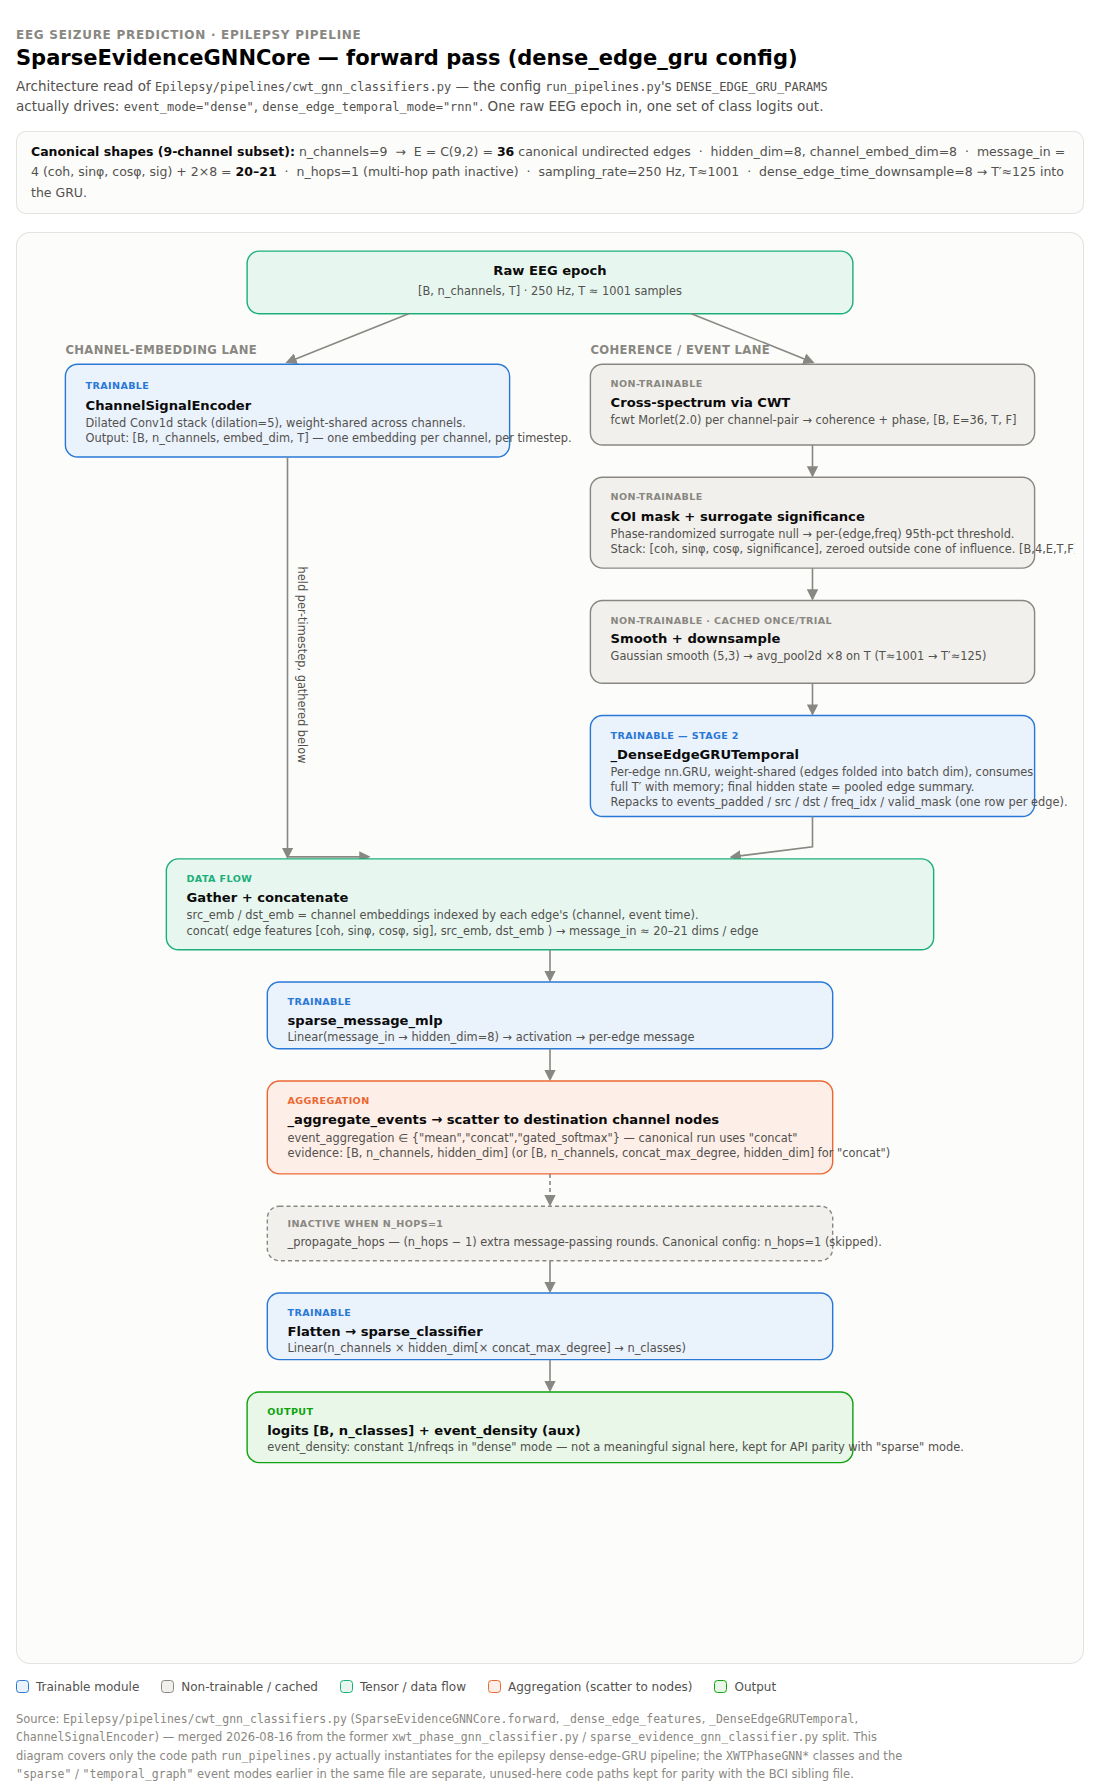
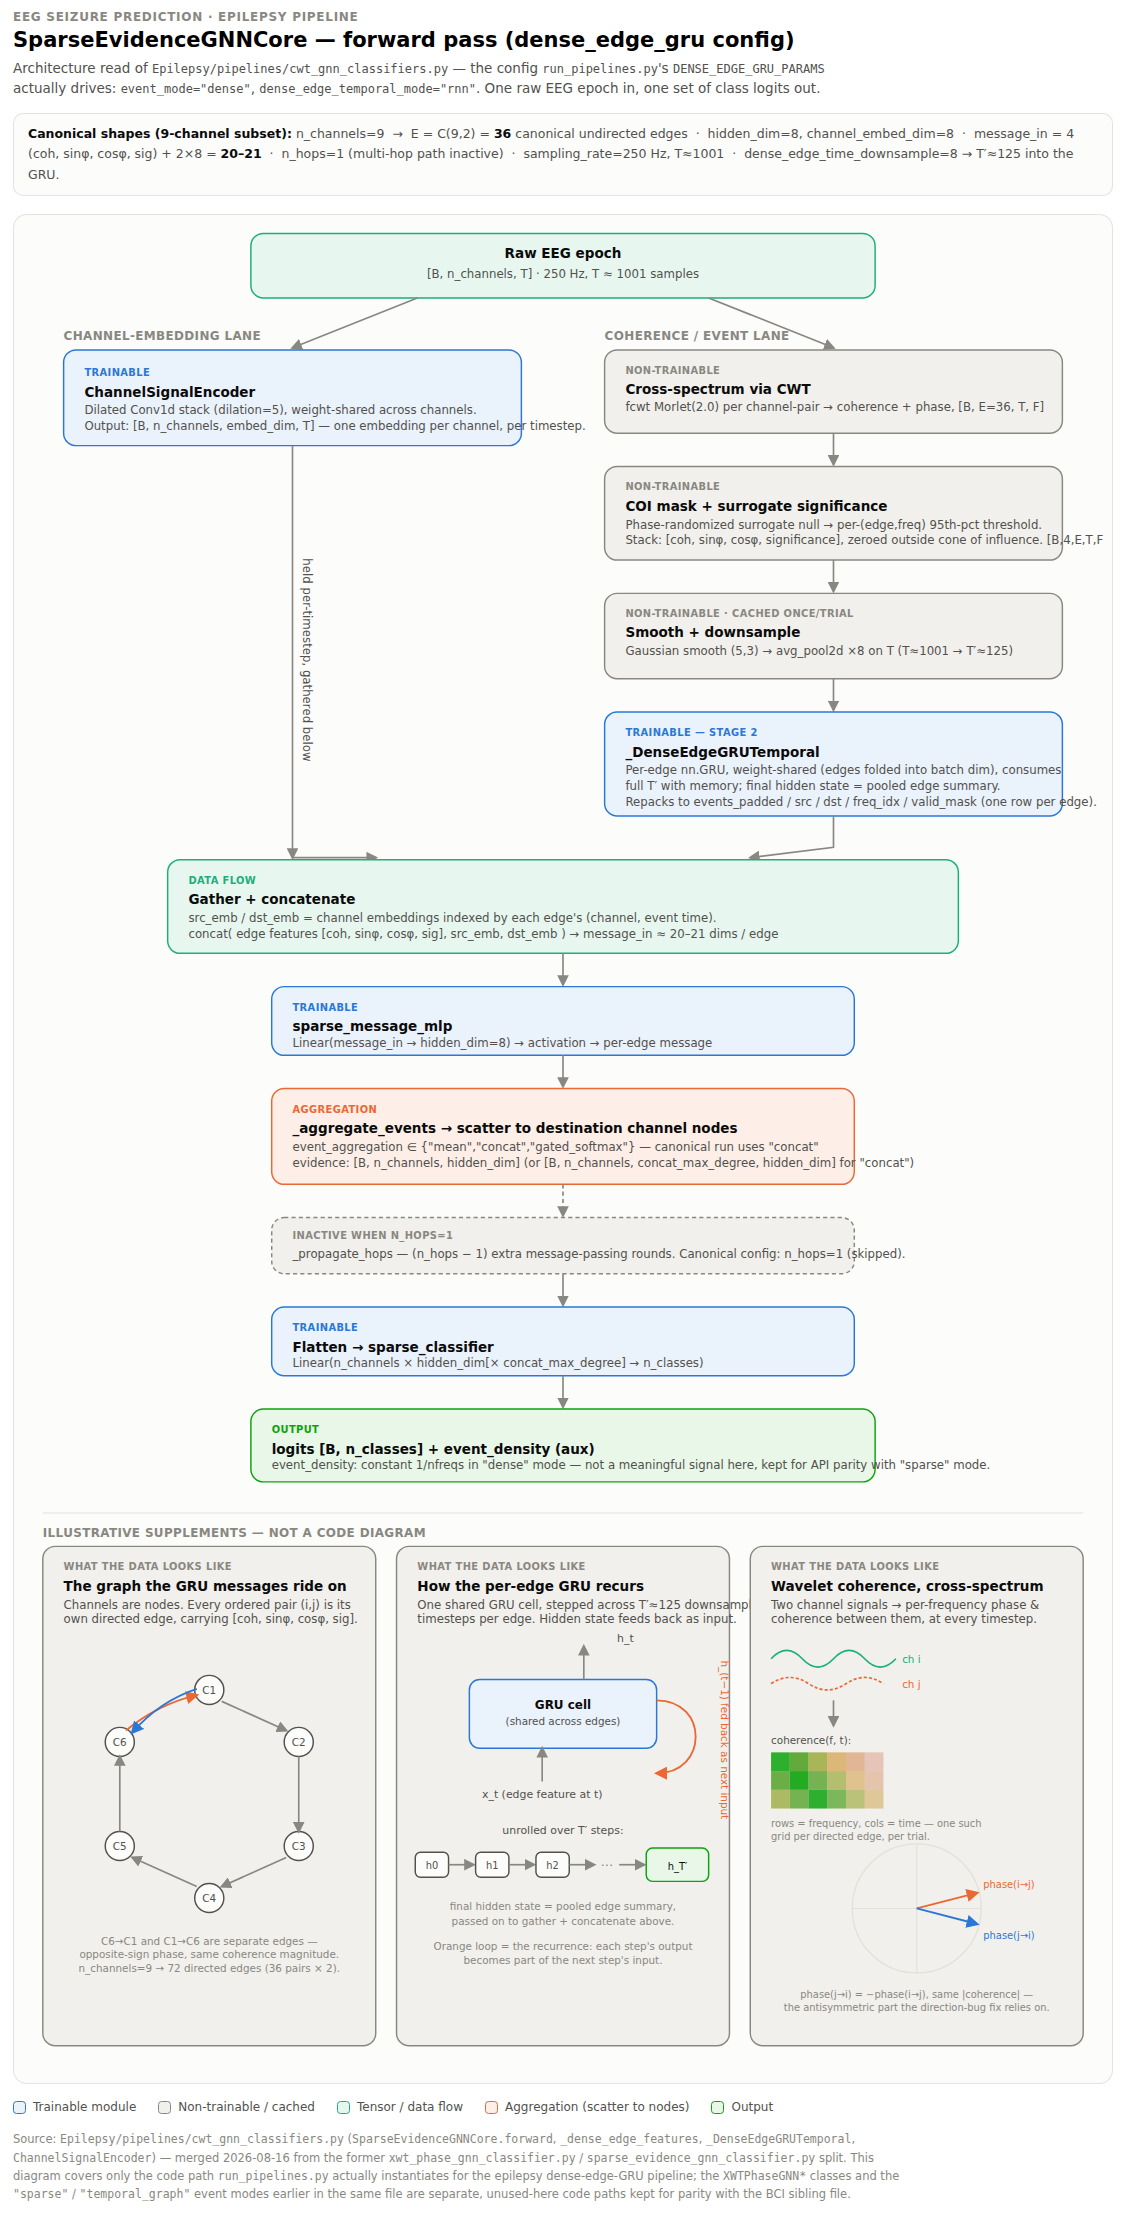
Auto commit

Changed region(s): [[0.0, 0.0, 0.9582, 0.9218], [0.0, 0.9218, 0.8036, 1.0]]

diff --git a/resources/architecture-diagram.html b/resources/architecture-diagram.html
@@ -149,10 +149,19 @@
 </div>
 
 <div class="card">
-<svg viewBox="0 0 1040 1400" xmlns="http://www.w3.org/2000/svg" role="img" aria-label="Pipeline diagram">
+<svg viewBox="0 0 1040 1780" xmlns="http://www.w3.org/2000/svg" role="img" aria-label="Pipeline diagram">
 <defs>
 <marker id="arrow" viewBox="0 0 10 10" refX="8" refY="5" markerWidth="7" markerHeight="7" orient="auto-start-reverse">
 <path d="M0,0 L10,5 L0,10 z" fill="var(--text-muted)"></path>
+</marker>
+<marker id="arrow-orange" viewBox="0 0 10 10" refX="8" refY="5" markerWidth="7" markerHeight="7" orient="auto-start-reverse">
+<path d="M0,0 L10,5 L0,10 z" fill="var(--orange)"></path>
+</marker>
+<marker id="arrow-blue" viewBox="0 0 10 10" refX="8" refY="5" markerWidth="7" markerHeight="7" orient="auto-start-reverse">
+<path d="M0,0 L10,5 L0,10 z" fill="var(--blue)"></path>
+</marker>
+<marker id="arrow-green" viewBox="0 0 10 10" refX="8" refY="5" markerWidth="7" markerHeight="7" orient="auto-start-reverse">
+<path d="M0,0 L10,5 L0,10 z" fill="var(--green)"></path>
 </marker>
 </defs>
 
@@ -275,6 +284,137 @@
 <text x="240" y="1163" class="box-tag" fill="var(--green)">output</text>
 <text x="240" y="1183" class="box-title">logits [B, n_classes]  +  event_density (aux)</text>
 <text x="240" y="1198" class="box-body">event_density: constant 1/nfreqs in "dense" mode — not a meaningful signal here, kept for API parity with "sparse" mode.</text>
+</g>
+
+<!-- ============ SUPPLEMENTARY ILLUSTRATIONS ============ -->
+<line x1="20" y1="1240" x2="1020" y2="1240" stroke="var(--gridline)" stroke-width="1"></line>
+<text x="20" y="1263" class="lane-label">illustrative supplements — not a code diagram</text>
+
+<!-- ---- Panel 1: channel graph ---- -->
+<g class="box">
+<rect x="20" y="1272" width="320" height="480" rx="12" fill="var(--gray-soft)" stroke="var(--text-muted)"></rect>
+<text x="40" y="1295" class="box-tag" fill="var(--text-muted)">what the data looks like</text>
+<text x="40" y="1315" class="box-title">The graph the GRU messages ride on</text>
+<text x="40" y="1332" class="box-body">Channels are nodes. Every ordered pair (i,j) is its</text>
+<text x="40" y="1346" class="box-body">own directed edge, carrying [coh, sinφ, cosφ, sig].</text>
+
+<circle cx="180" cy="1410" r="14" fill="var(--surface-1)" stroke="var(--text-secondary)" stroke-width="1.4"></circle>
+<text x="180" y="1414" text-anchor="middle" font-size="10" fill="var(--text-secondary)">C1</text>
+<circle cx="266" cy="1460" r="14" fill="var(--surface-1)" stroke="var(--text-secondary)" stroke-width="1.4"></circle>
+<text x="266" y="1464" text-anchor="middle" font-size="10" fill="var(--text-secondary)">C2</text>
+<circle cx="266" cy="1560" r="14" fill="var(--surface-1)" stroke="var(--text-secondary)" stroke-width="1.4"></circle>
+<text x="266" y="1564" text-anchor="middle" font-size="10" fill="var(--text-secondary)">C3</text>
+<circle cx="180" cy="1610" r="14" fill="var(--surface-1)" stroke="var(--text-secondary)" stroke-width="1.4"></circle>
+<text x="180" y="1614" text-anchor="middle" font-size="10" fill="var(--text-secondary)">C4</text>
+<circle cx="94" cy="1560" r="14" fill="var(--surface-1)" stroke="var(--text-secondary)" stroke-width="1.4"></circle>
+<text x="94" y="1564" text-anchor="middle" font-size="10" fill="var(--text-secondary)">C5</text>
+<circle cx="94" cy="1460" r="14" fill="var(--surface-1)" stroke="var(--text-secondary)" stroke-width="1.4"></circle>
+<text x="94" y="1464" text-anchor="middle" font-size="10" fill="var(--text-secondary)">C6</text>
+
+<path class="arrow-path" d="M 192 1421 L 254 1449" marker-end="url(#arrow)"></path>
+<path class="arrow-path" d="M 266 1474 L 266 1546" marker-end="url(#arrow)"></path>
+<path class="arrow-path" d="M 254 1571 L 192 1599" marker-end="url(#arrow)"></path>
+<path class="arrow-path" d="M 168 1599 L 106 1571" marker-end="url(#arrow)"></path>
+<path class="arrow-path" d="M 94 1546 L 94 1474" marker-end="url(#arrow)"></path>
+
+<path d="M 100 1449 Q 130 1424 168 1415" fill="none" stroke="var(--orange)" stroke-width="1.8" marker-end="url(#arrow-orange)"></path>
+<path d="M 168 1409 Q 132 1421 106 1451" fill="none" stroke="var(--blue)" stroke-width="1.8" marker-end="url(#arrow-blue)"></path>
+<text x="180" y="1655" text-anchor="middle" font-size="10" fill="var(--text-muted)">C6→C1 and C1→C6 are separate edges —</text>
+<text x="180" y="1668" text-anchor="middle" font-size="10" fill="var(--text-muted)">opposite-sign phase, same coherence magnitude.</text>
+<text x="180" y="1681" text-anchor="middle" font-size="10" fill="var(--text-muted)">n_channels=9 → 72 directed edges (36 pairs × 2).</text>
+</g>
+
+<!-- ---- Panel 2: GRU recurrence ---- -->
+<g class="box">
+<rect x="360" y="1272" width="320" height="480" rx="12" fill="var(--gray-soft)" stroke="var(--text-muted)"></rect>
+<text x="380" y="1295" class="box-tag" fill="var(--text-muted)">what the data looks like</text>
+<text x="380" y="1315" class="box-title">How the per-edge GRU recurs</text>
+<text x="380" y="1332" class="box-body">One shared GRU cell, stepped across T′≈125 downsampled</text>
+<text x="380" y="1346" class="box-body">timesteps per edge. Hidden state feeds back as input.</text>
+
+<rect x="430" y="1400" width="180" height="66" rx="10" fill="var(--blue-soft)" stroke="var(--blue)"></rect>
+<text x="520" y="1428" text-anchor="middle" font-size="11.5" font-weight="700" fill="var(--text-primary)">GRU cell</text>
+<text x="520" y="1444" text-anchor="middle" font-size="10" fill="var(--text-secondary)">(shared across edges)</text>
+
+<path class="arrow-path" d="M 500 1498 L 500 1466" marker-end="url(#arrow)"></path>
+<text x="500" y="1514" text-anchor="middle" font-size="10.5" fill="var(--text-secondary)">x_t (edge feature at t)</text>
+
+<path class="arrow-path" d="M 540 1400 L 540 1368" marker-end="url(#arrow)"></path>
+<text x="580" y="1364" text-anchor="middle" font-size="10.5" fill="var(--text-secondary)">h_t</text>
+
+<path d="M 610 1420 C 660 1420 660 1490 610 1490" fill="none" stroke="var(--orange)" stroke-width="1.8" marker-end="url(#arrow-orange)"></path>
+<text x="672" y="1458" text-anchor="middle" font-size="10" fill="var(--orange)" transform="rotate(90 672 1458)">h_(t−1) fed back as next input</text>
+
+<text x="520" y="1548" text-anchor="middle" font-size="10.5" fill="var(--text-secondary)">unrolled over T′ steps:</text>
+
+<rect x="378" y="1566" width="32" height="24" rx="5" fill="var(--surface-1)" stroke="var(--text-secondary)" stroke-width="1.2"></rect>
+<text x="394" y="1582" text-anchor="middle" font-size="9.5" fill="var(--text-secondary)">h0</text>
+<path class="arrow-path" d="M 410 1578 L 434 1578" marker-end="url(#arrow)"></path>
+<rect x="436" y="1566" width="32" height="24" rx="5" fill="var(--surface-1)" stroke="var(--text-secondary)" stroke-width="1.2"></rect>
+<text x="452" y="1582" text-anchor="middle" font-size="9.5" fill="var(--text-secondary)">h1</text>
+<path class="arrow-path" d="M 468 1578 L 492 1578" marker-end="url(#arrow)"></path>
+<rect x="494" y="1566" width="32" height="24" rx="5" fill="var(--surface-1)" stroke="var(--text-secondary)" stroke-width="1.2"></rect>
+<text x="510" y="1582" text-anchor="middle" font-size="9.5" fill="var(--text-secondary)">h2</text>
+<path class="arrow-path" d="M 526 1578 L 550 1578" marker-end="url(#arrow)"></path>
+<text x="562" y="1582" text-anchor="middle" font-size="12" fill="var(--text-muted)">⋯</text>
+<path class="arrow-path" d="M 574 1578 L 598 1578" marker-end="url(#arrow)"></path>
+<rect x="600" y="1562" width="60" height="32" rx="6" fill="var(--green-soft)" stroke="var(--green)" stroke-width="1.4"></rect>
+<text x="630" y="1583" text-anchor="middle" font-size="9.5" fill="var(--text-primary)">h_T′</text>
+
+<text x="520" y="1622" text-anchor="middle" font-size="10" fill="var(--text-muted)">final hidden state = pooled edge summary,</text>
+<text x="520" y="1636" text-anchor="middle" font-size="10" fill="var(--text-muted)">passed on to gather + concatenate above.</text>
+<text x="520" y="1660" text-anchor="middle" font-size="10" fill="var(--text-muted)">Orange loop = the recurrence: each step's output</text>
+<text x="520" y="1673" text-anchor="middle" font-size="10" fill="var(--text-muted)">becomes part of the next step's input.</text>
+</g>
+
+<!-- ---- Panel 3: wavelet coherence ---- -->
+<g class="box">
+<rect x="700" y="1272" width="320" height="480" rx="12" fill="var(--gray-soft)" stroke="var(--text-muted)"></rect>
+<text x="720" y="1295" class="box-tag" fill="var(--text-muted)">what the data looks like</text>
+<text x="720" y="1315" class="box-title">Wavelet coherence, cross-spectrum</text>
+<text x="720" y="1332" class="box-body">Two channel signals → per-frequency phase &amp;</text>
+<text x="720" y="1346" class="box-body">coherence between them, at every timestep.</text>
+
+<path d="M 720 1380 Q 735 1364 750 1380 T 780 1380 T 810 1380 T 840 1380" fill="none" stroke="var(--aqua)" stroke-width="1.6"></path>
+<text x="846" y="1384" font-size="10" fill="var(--aqua)">ch i</text>
+<path d="M 720 1404 Q 738 1392 756 1404 T 792 1404 T 828 1404" fill="none" stroke="var(--orange)" stroke-width="1.6" stroke-dasharray="3 2"></path>
+<text x="846" y="1408" font-size="10" fill="var(--orange)">ch j</text>
+
+<path class="arrow-path" d="M 780 1420 L 780 1444" marker-end="url(#arrow)"></path>
+
+<text x="720" y="1462" font-size="10" fill="var(--text-secondary)">coherence(f, t):</text>
+<g>
+<rect x="720" y="1470" width="18" height="18" fill="#0ca30c" opacity="0.85"></rect>
+<rect x="738" y="1470" width="18" height="18" fill="#4a9e1f" opacity="0.85"></rect>
+<rect x="756" y="1470" width="18" height="18" fill="#8a9c1a" opacity="0.7"></rect>
+<rect x="774" y="1470" width="18" height="18" fill="#c98a1a" opacity="0.55"></rect>
+<rect x="792" y="1470" width="18" height="18" fill="#c9601a" opacity="0.4"></rect>
+<rect x="810" y="1470" width="18" height="18" fill="#c9401a" opacity="0.25"></rect>
+<rect x="720" y="1488" width="18" height="18" fill="#4a9e1f" opacity="0.8"></rect>
+<rect x="738" y="1488" width="18" height="18" fill="#0ca30c" opacity="0.9"></rect>
+<rect x="756" y="1488" width="18" height="18" fill="#4a9e1f" opacity="0.75"></rect>
+<rect x="774" y="1488" width="18" height="18" fill="#8a9c1a" opacity="0.6"></rect>
+<rect x="792" y="1488" width="18" height="18" fill="#c98a1a" opacity="0.45"></rect>
+<rect x="810" y="1488" width="18" height="18" fill="#c9601a" opacity="0.3"></rect>
+<rect x="720" y="1506" width="18" height="18" fill="#8a9c1a" opacity="0.65"></rect>
+<rect x="738" y="1506" width="18" height="18" fill="#4a9e1f" opacity="0.75"></rect>
+<rect x="756" y="1506" width="18" height="18" fill="#0ca30c" opacity="0.85"></rect>
+<rect x="774" y="1506" width="18" height="18" fill="#4a9e1f" opacity="0.7"></rect>
+<rect x="792" y="1506" width="18" height="18" fill="#8a9c1a" opacity="0.55"></rect>
+<rect x="810" y="1506" width="18" height="18" fill="#c98a1a" opacity="0.4"></rect>
+</g>
+<text x="720" y="1542" font-size="9.5" fill="var(--text-muted)">rows = frequency, cols = time — one such</text>
+<text x="720" y="1554" font-size="9.5" fill="var(--text-muted)">grid per directed edge, per trial.</text>
+
+<circle cx="860" cy="1620" r="62" fill="none" stroke="var(--gridline)" stroke-width="1.2"></circle>
+<line x1="798" y1="1620" x2="922" y2="1620" stroke="var(--gridline)" stroke-width="1"></line>
+<line x1="860" y1="1558" x2="860" y2="1682" stroke="var(--gridline)" stroke-width="1"></line>
+<path d="M 860 1620 L 918 1605" stroke="var(--orange)" stroke-width="1.8" marker-end="url(#arrow-orange)"></path>
+<path d="M 860 1620 L 918 1635" stroke="var(--blue)" stroke-width="1.8" marker-end="url(#arrow-blue)"></path>
+<text x="924" y="1600" font-size="9.5" fill="var(--orange)">phase(i→j)</text>
+<text x="924" y="1649" font-size="9.5" fill="var(--blue)">phase(j→i)</text>
+<text x="860" y="1706" text-anchor="middle" font-size="9.5" fill="var(--text-muted)">phase(j→i) = −phase(i→j), same |coherence| —</text>
+<text x="860" y="1719" text-anchor="middle" font-size="9.5" fill="var(--text-muted)">the antisymmetric part the direction-bug fix relies on.</text>
 </g>
 </svg>
 </div>

diff --git a/menu-loader.js b/menu-loader.js
@@ -1,8 +1,10 @@
 // Menu loader utility
+const menuLoaderScript = document.currentScript;
 async function loadMenu() {
   try {
     console.log('Loading menu...');
-    const response = await fetch('menu.html');
+    const menuUrl = new URL('menu.html', menuLoaderScript.src);
+    const response = await fetch(menuUrl);
     if (!response.ok) {
       throw new Error(`HTTP error! status: ${response.status}`);
     }
@@ -46,12 +48,11 @@ async function loadMenu() {
             <span></span><span></span><span></span>
           </button>
           <div class="nav-links">
-            <a href="coheriqs.html">CoherIQs</a>
-            <a href="coheriqslive.html">CoherIQs Live</a>
-            <a href="coherentmultiplex.html">Coherent Multiplex</a>
+            <a href="research.html">Research</a>
+            <a href="notes.html">Notes</a>
+            <a href="literature.html">Publications</a>
             <a href="performance.html">Performance</a>
-            <a href="biography.html">About Us</a>
-            <a href="literature.html">Literature</a>
+            <a href="biography.html">About</a>
           </div>
         </nav>
       `;

diff --git a/footer-loader.js b/footer-loader.js
@@ -1,7 +1,9 @@
 // Footer loader utility
+const footerLoaderScript = document.currentScript;
 async function loadFooter() {
   try {
-    const response = await fetch('footer.html');
+    const footerUrl = new URL('footer.html', footerLoaderScript.src);
+    const response = await fetch(footerUrl);
     const footerContent = await response.text();
     document.getElementById('footer-container').innerHTML = footerContent;
   } catch (error) {
